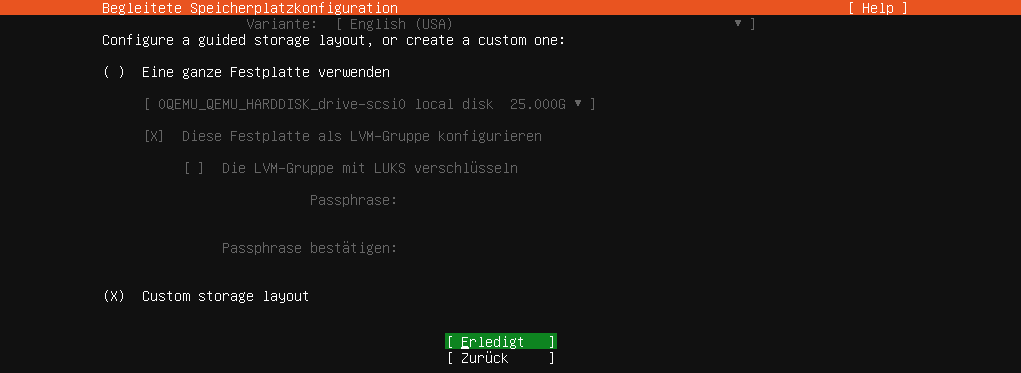
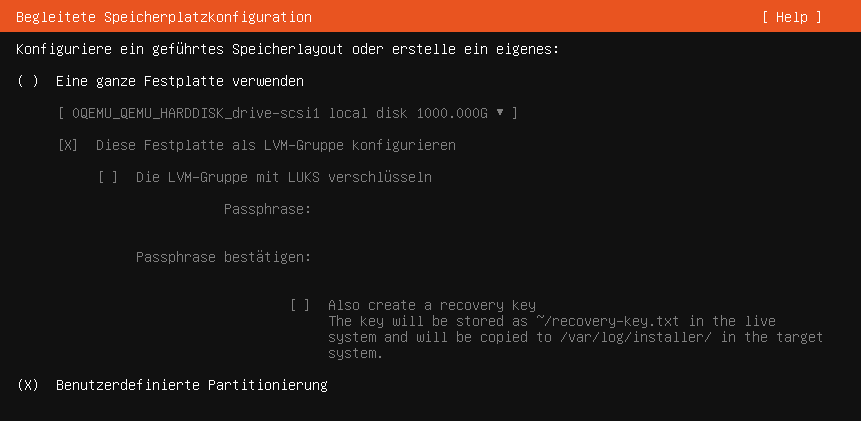
fixed for v7.3 https://ask.linuxmuster.net/t/anpassen-der-installationsdoku/12241

diff --git a/source/installation/install-from-scratch/lmn_pre_install.rst b/source/installation/install-from-scratch/lmn_pre_install.rst
@@ -158,8 +158,7 @@ Das Skript ``lmn-appliance`` bereitet den Server / die Appliance vor:
 - startet dann das Vorbereitungsskript lmn-prepare,
   - das die für das jeweilige Appliance-Profil benötigten Pakete installiert,
   - das Netzwerk konfiguriert,
-  - das root-Passwort auf Muster! setzt und
-  - im Falle des Serverprofils optional LVM einrichtet.
+  - das root-Passwort auf Muster! setzt.
 
 .. hint::
 
@@ -174,20 +173,22 @@ Wenn Du nicht mehr an Deinem Server eingeloggt bist, melde Dich erneut an.
    lsblk
    
    NAME   MAJ:MIN RM  SIZE RO TYPE MOUNTPOINTS
-   sda      8:0    0   50G  0 disk 
-   ├─sda1   8:1    0    1M  0 part 
-   └─sda2   8:2    0   50G  0 part /
-   sdb      8:16   0  200G  0 disk 
+   sda      8:0    0   160G  0 disk
+   ├─sda1   8:1    0     1G  0 part /boot/efi
+   └─sda2   8:2    0 158.9G  0 part /
+   sdb      8:16   0  1000G  0 disk
+     └─sdb1 8:17   0  1000G  0 part /srv
    sr0     11:0    1 1024M  0 rom  
 
-In o.g. Beispiel wurde Ubuntu Server auf der 1. Festplatte (sda) installiert. Die zweite Festplatte (sdb) kennt noch keine Partitionen.
+In o.g. Beispiel wurde Ubuntu Server auf der 1. Festplatte (sda) installiert. Die erste Partition der ersten Platte wird für EFI verwendet,
+auf der zweiten Partition wird die Root-Partition ( / ) eingehangen. Auf der zweiten Platte existiert eine PArtition, die auf /srv eingehangen ist.
 
 Skript herunterladen
 --------------------
 
 Führe danach folgende Befehle in der Eingabekonsole aus:
 
-Wechsele Deinen Log-in und werde zu ``root``, falls du es nicht mehr sein solltest:
+Wechsel Deinen Log-in und werde zu ``root``, falls du es nicht mehr sein solltest:
 
 .. code-block:: Bash
  
@@ -211,45 +212,21 @@ Das Skript ist generell wie folgt zu starten:
 
 Die möglichen Optionen findest Du hier dokumentiert: https://github.com/linuxmuster/linuxmuster-prepare
 
-Für unsere Beispielkonfiguration rufe nun das Skript ``lmn-appliance`` so auf, dass Dein Server vorbereitet wird. Das LVM wird dann auf  der zweiten Festplatte eingerichtet wird.
+Installation
+============
+
+Nachstehende Beschreibung geht davon aus, dass Du eine zweite HDD mit einer Größe von 1TiB hast.
 
 .. code-block:: Bash
 
-  ./lmn-appliance -p server -u -l /dev/sdb
+  ./lmn-appliance -p server -u
 
-Mit dem Parametern -u (unattended) und -l wird dann ein LVM - hier auf der 2. Festplatte (sdb) - mit folgenden Werten eingerichtet:
-
-- var: 10 GiB
-- linbo: 40 GiB
-- global: 10GiB
-- default-school: restlicher Plattenplatz
-
-Installation mit Deinen Vorgaben
-================================
-
-Nachstehendes Beispiel geht davon aus, dass Du eine zweite HDD mit einer Größe von 1TiB hast.
-
-.. code-block:: Bash
-
-  ./lmn-appliance -p server -l /dev/sdb -v var:50,linbo:500,global:50,default-school:100%FREE
-
-Es wird hier also mit dem Profil server auf der zweiten Festplatte (/dev/sdb) ein LVM eingerichtet. Auf der zweiten Platte werden vier Volumes mit den Größen
-
-- var: 50GiB
-- linbo: 500GiB
-- global: 50GiB
-- default-school: verbleibender Rest der zweiten Festplatte - hier 400 GiB -
-
-eingerichtet.
-
-.. attention::
-
-  Passe die Größenangaben auf Deine Situation an.
+Mit dem Parametern -u (unattended) und -p (Serverprofil) wird das Setup für den Server aufgerufen.
 
 Ablauf
 ======
 
-Es wird zuerst das LVM auf der zweiten Platte eingerichtet, danach werden alle erforderliche Pakete geladen und installiert. Dies kann etwas dauern. Nach Abschluss des Installations- und Vorbereitungsarbeiten wirst Du aufgefordert, den Server neu zu starten.
+Es werden alle erforderliche Pakete geladen und installiert. Dies kann etwas dauern. Nach Abschluss des Installations- und Vorbereitungsarbeiten wirst Du aufgefordert, den Server neu zu starten.
 
 .. code-block:: Bash
 

diff --git a/source/installation/install-from-scratch/basis_server.rst b/source/installation/install-from-scratch/basis_server.rst
@@ -18,7 +18,7 @@ Anlegen und Installieren des Servers (AD/DC)
      
      - Installation von Local/ISO, 
      - Gast OS: Linux, 6.X - 2.6 Kernel
-     - BIOS: Boot / MBR / SeaBIOS, 
+     - BIOS: OVMF (UEFI)
      - 2 vCPU, 
      - 3 GiB RAM, 
      - storage -> hdd1: 25 GiB -> hdd2: 100 GiB, 
@@ -26,7 +26,8 @@ Anlegen und Installieren des Servers (AD/DC)
    
    Achte darauf, dass vor dem Start der VM beide Festplatten der VM zugewiesen wurden.
 
-   Bei der Einrichtung des Servers musst Du nur einen Server mit 2 HDDs haben und Ubuntu auf der ersten HDD installieren. Die zweite HDD bleibt frei. Auf dieser 2. HDD richtest Du - wie nachstehend beschrieben -  ein LVM ein.
+   Bei der Einrichtung des Servers musst Du nur einen Server mit 2 HDDs haben und Ubuntu auf der ersten HDD installieren.
+   Die zweite HDD bleibt wird später für linuxmuster.net genutzt.
 
 Erster Start des Servers vom Installationsmedium
 ================================================
@@ -176,7 +177,7 @@ Dabei ist es egal ob es sich dabei um |...|
 In dieser Anleitung beschreiben wir zunächst die Installation auf Basis unserer Mindestanforderungen, also |...|
 
 * |...| 25G Speichermedium für das System und
-* |...| 100G Speichermedium für Daten
+* |...| 100G Speichermedium für Daten / linuxmuster.net
 
 Wobei anzumerken ist, dass die Installation des Speicherplatzes für das System ``/`` für alle Varianten identisch ist.
 
@@ -201,7 +202,7 @@ Es werden Dir dann die verfügbaren Geräte angezeigt.
 
    Anzeige der verfügbaren Geräte - andere HDD-Größen als zuvor genannt
 
-Wähle die erste Festplatte bzw. die erste Partition aus, auf der Du das System des Servers unterbringen möchtest. Es wird ein Kontextmenü angezeigt, bei dem Du mit ``Add GPT Partition`` diese erstellen musst. 
+Wähle die erste Festplatte aus, auf der Du das System des Servers unterbringen möchtest. Es wird ein Kontextmenü angezeigt, bei dem Du mit ``Add GPT Partition`` diese erstellen musst.
 
 .. figure:: media/basis_server_012_custom-storage-layout-create-partition-table2.png
    :align: center
@@ -210,7 +211,8 @@ Wähle die erste Festplatte bzw. die erste Partition aus, auf der Du das System 
 
    Füge eine GPT Partition hinzu
 
-Wähle den gesamten Festplattenplatz (einfach das Eingabefeld leer lassen) und formatiere diesen mit dem ext4-Dateiformat und weise diese dem Mount Point ``/`` zu.
+Wähle den gesamten Festplattenplatz (einfach das Eingabefeld leer lassen) und formatiere diesen mit dem btrfs-Dateiformat und weise diese dem Mount Point ``/`` zu.
+Die sog. Subvolumes für btrfs werden bei der Ubuntu-Installation selbständig erstellt.
 
 .. figure:: media/basis_server_013_custom-storage-layout-create-partition-table3.png
    :align: center
@@ -223,33 +225,34 @@ Gehe auf ``Erstellen``.
 
 Danach gelangst Du zu nachstehendem Bildschirm.
 
-.. figure:: media/basis_server_014_custom-storage-layout-create-partition-table-lvm-hdb-5.png
+.. figure:: media/basis_server_014_custom-storage-layout-create-partition-table.png
    :align: center
    :scale: 50%
    :alt: storage configuration overview
 
    Speicherplatzkonfiguration
 
-Lasse das ``zweite Speichermedium unkonfiguriert``. Diese wird später vom Skript ``lmn-prepare`` vorbereitet.
+Wähle dort das ``zweite Speichermedium`` aus. Dieses muss noch für das spätere Setup partitioniert werden.
+Füge hier erneut eine GPT-Partition für den gesamten Speicherplatz des zweiten Speichermediums hinzu.
 
-Für das Setup werden noch weitere Partitionen benötigt, die so ohne weitere Angabe von dem später beschriebenen Skript ``lmn-prepare`` genutzt werden.
+Wähle bei der Partitionierung für diese Festplatte das Dateisystem btrfs und hänge dieses auf dem mountpoint ``/srv`` ein.
 
-.. hint:: Für kleine Schulen oder eine Test-Installation sollten diese Vorgaben passen. 
-   
-   ============== ========================== ================================= ==========
-   LV Name        LV Pfad                    Mountpoint                        Größe
-   ============== ========================== ================================= ==========
-   var            /dev/sg_srv/var            /var                              10G
-   linbo          /dev/sg_srv/linbo          /srv/linbo                        40G
-   global         /dev/sg_srv/global         /srv/samba/global                 10G
-   default-school /dev/sg_srv/default-school /srv/samba/schools/default-school 40G [#f1]_
-   ============== ========================== ================================= ==========
+.. figure:: media/basis_server_015_custom-storage-layout-create-partition-table-2nd-storage.png
+   :align: center
+   :scale: 50%
+   :alt: 2nd storage partitioning
 
-.. [#f1] Sollte Deine Festplatte größer sein als die vorgeschlagene Mindestgröße, so wird für diese Partition der maximal übrige freie Platz verwendet. Du kannst zudem eigene Größenangaben vornehmen, sofern Deine Voraussetzungen abweichen.
+   Partitionierung der 2. Festplatte
 
-.. attention::
+Hast Du dies übernehmen gelangst Du wieder zur Gesamtübersicht der vorgenommenen Partitionierung.
 
-   Unser lmn-prepare nimmt Dir die nötigen vorbereitenden Aktionen ab. Du läßt also das ``zweite Speichermedium unkonfiguriert``.
+.. figure:: media/basis_server_016_custom-storage-layout-create-partitions.png
+   :align: center
+   :scale: 50%
+   :alt: total storage partitioning
+
+   Partitionierung der Festplatten
+
 
 Speicherplatzkonfiguration übernehmen
 -------------------------------------
@@ -421,7 +424,7 @@ Um mit Proxmox die Server VM herunterfahren zu können, oder für den Snapshot d
 
 Gehe dabei wie folgt vor:
 
-1. Installiere auf der Server-Konsole die benötigten Pakete für den QEMU-Gast-Agenten:
+1. Installiere auf der Server-Konsole die benötigte pakete für den QEMU-Gast-Agenten:
 
 .. code::
 

diff --git a/source/installation/proxmox/index.rst b/source/installation/proxmox/index.rst
@@ -89,7 +89,7 @@ Nachdem Du die ISO-Datei für Proxmox heruntergeladen hast, wechselst Du in das 
 
 .. code-block:: console
 
-   dd if=proxmox-ve_8.4-1.iso of=/dev/sdX bs=1M status=progress conv=fdatasync
+   dd if=proxmox-ve_9.2-1.iso of=/dev/sdX bs=1M status=progress conv=fdatasync
 
 Verkabelungshinweise
 --------------------
@@ -1039,6 +1039,8 @@ Wähle dann das ISO image des Ubuntu Server aus.
 Klicke dann auf ``Next``.
 
 Belasse hier zunächst alle Voreinstellungen für Grafikkarte und Festplatten-Controller wie angezeigt.
+Wähle als BIOS ``OVMF (UEFI)`` und füge einen EFI-Storage hinzu. Wähle hier im Drop-down den zuvor eingerichteten Proxmox-Speicher aus.
+Aktiviere den ``Qmu Agent``.
 
 .. figure:: media/proxmox-create-vm-ubuntu-server-03.png
    :align: center